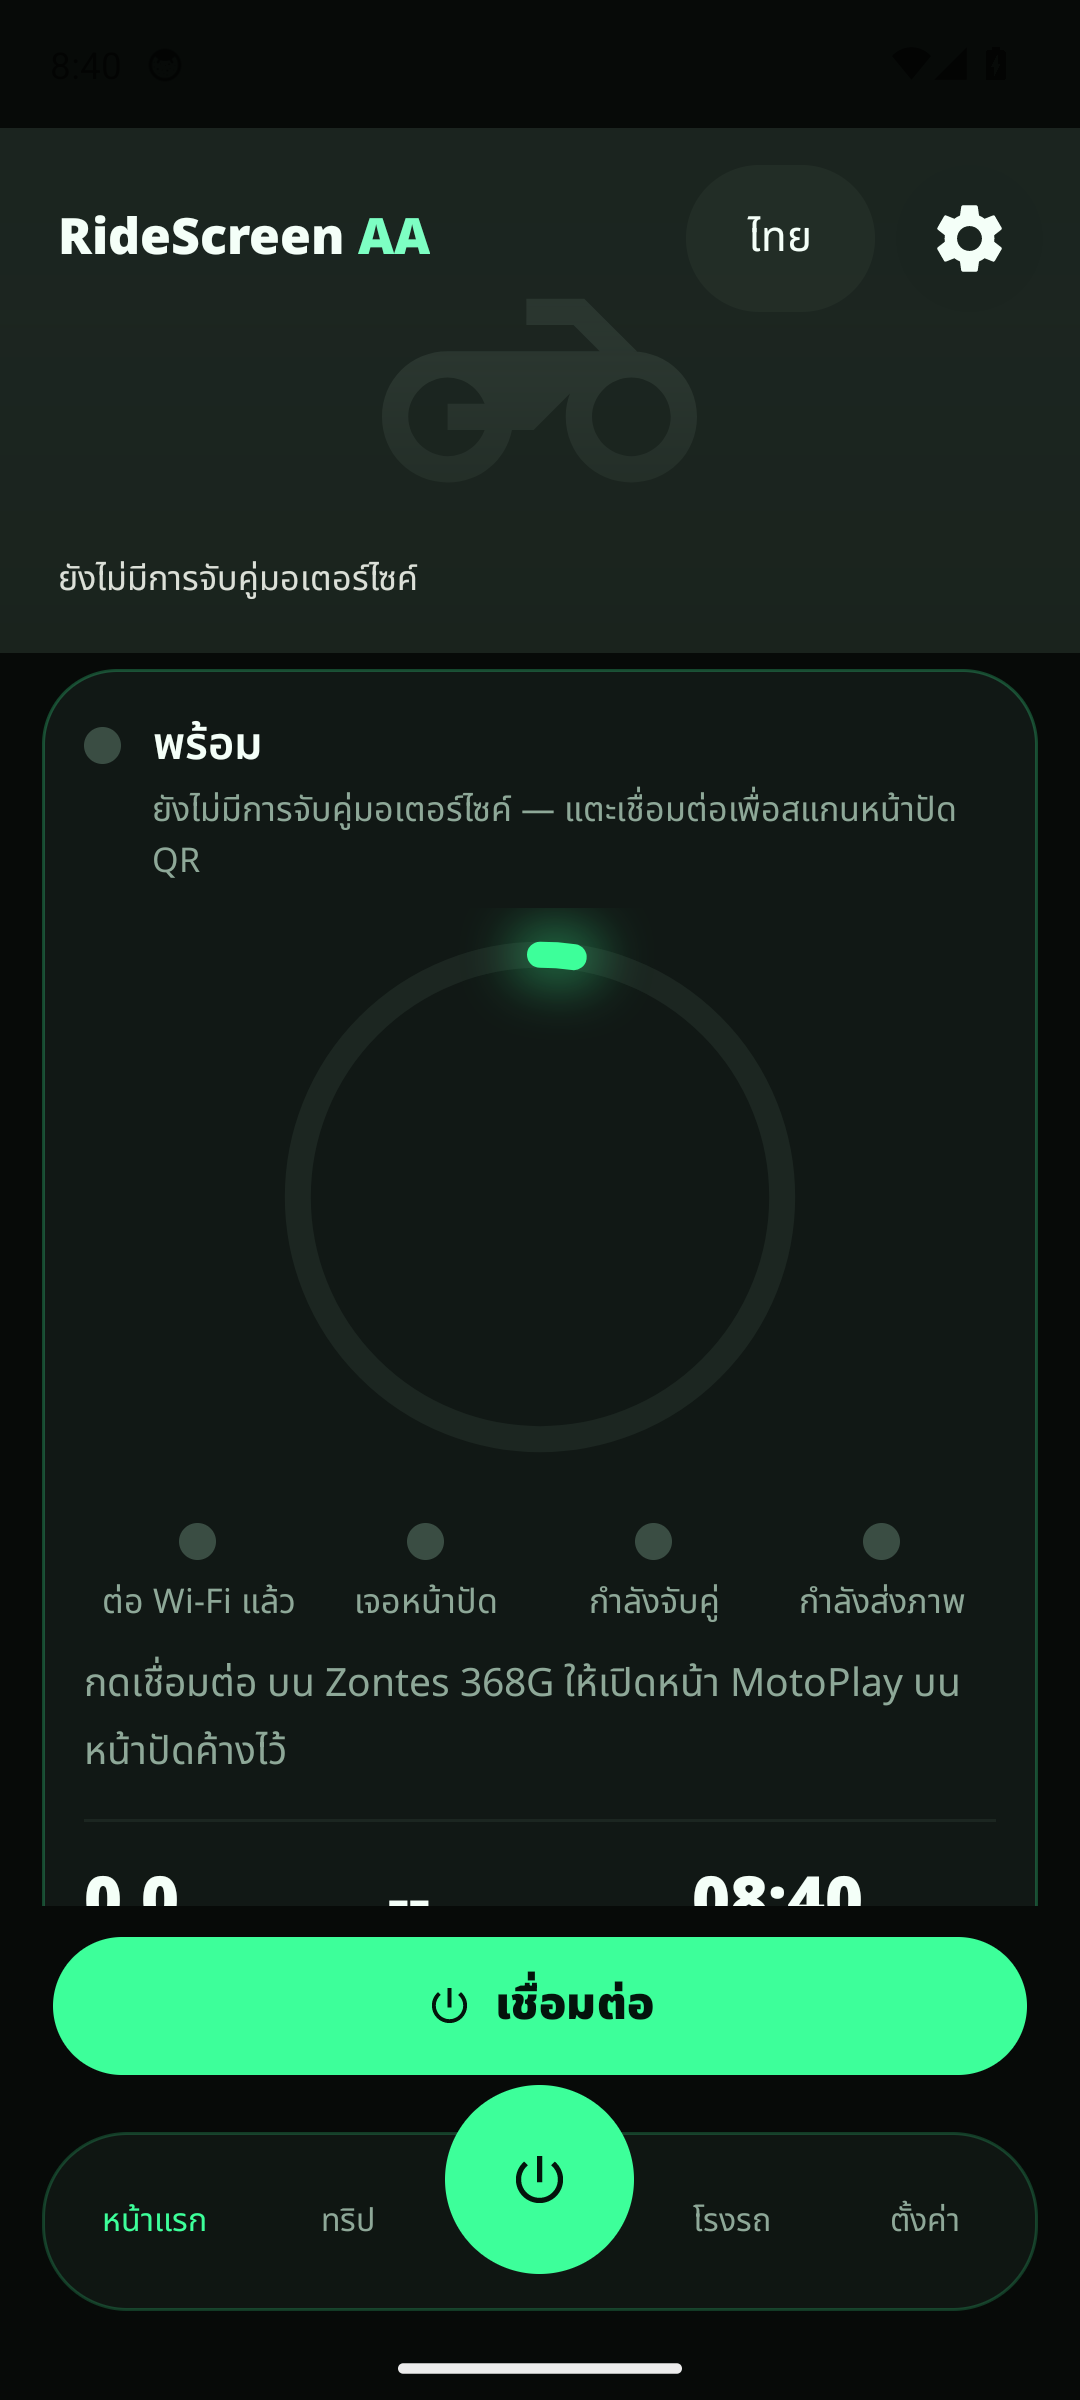
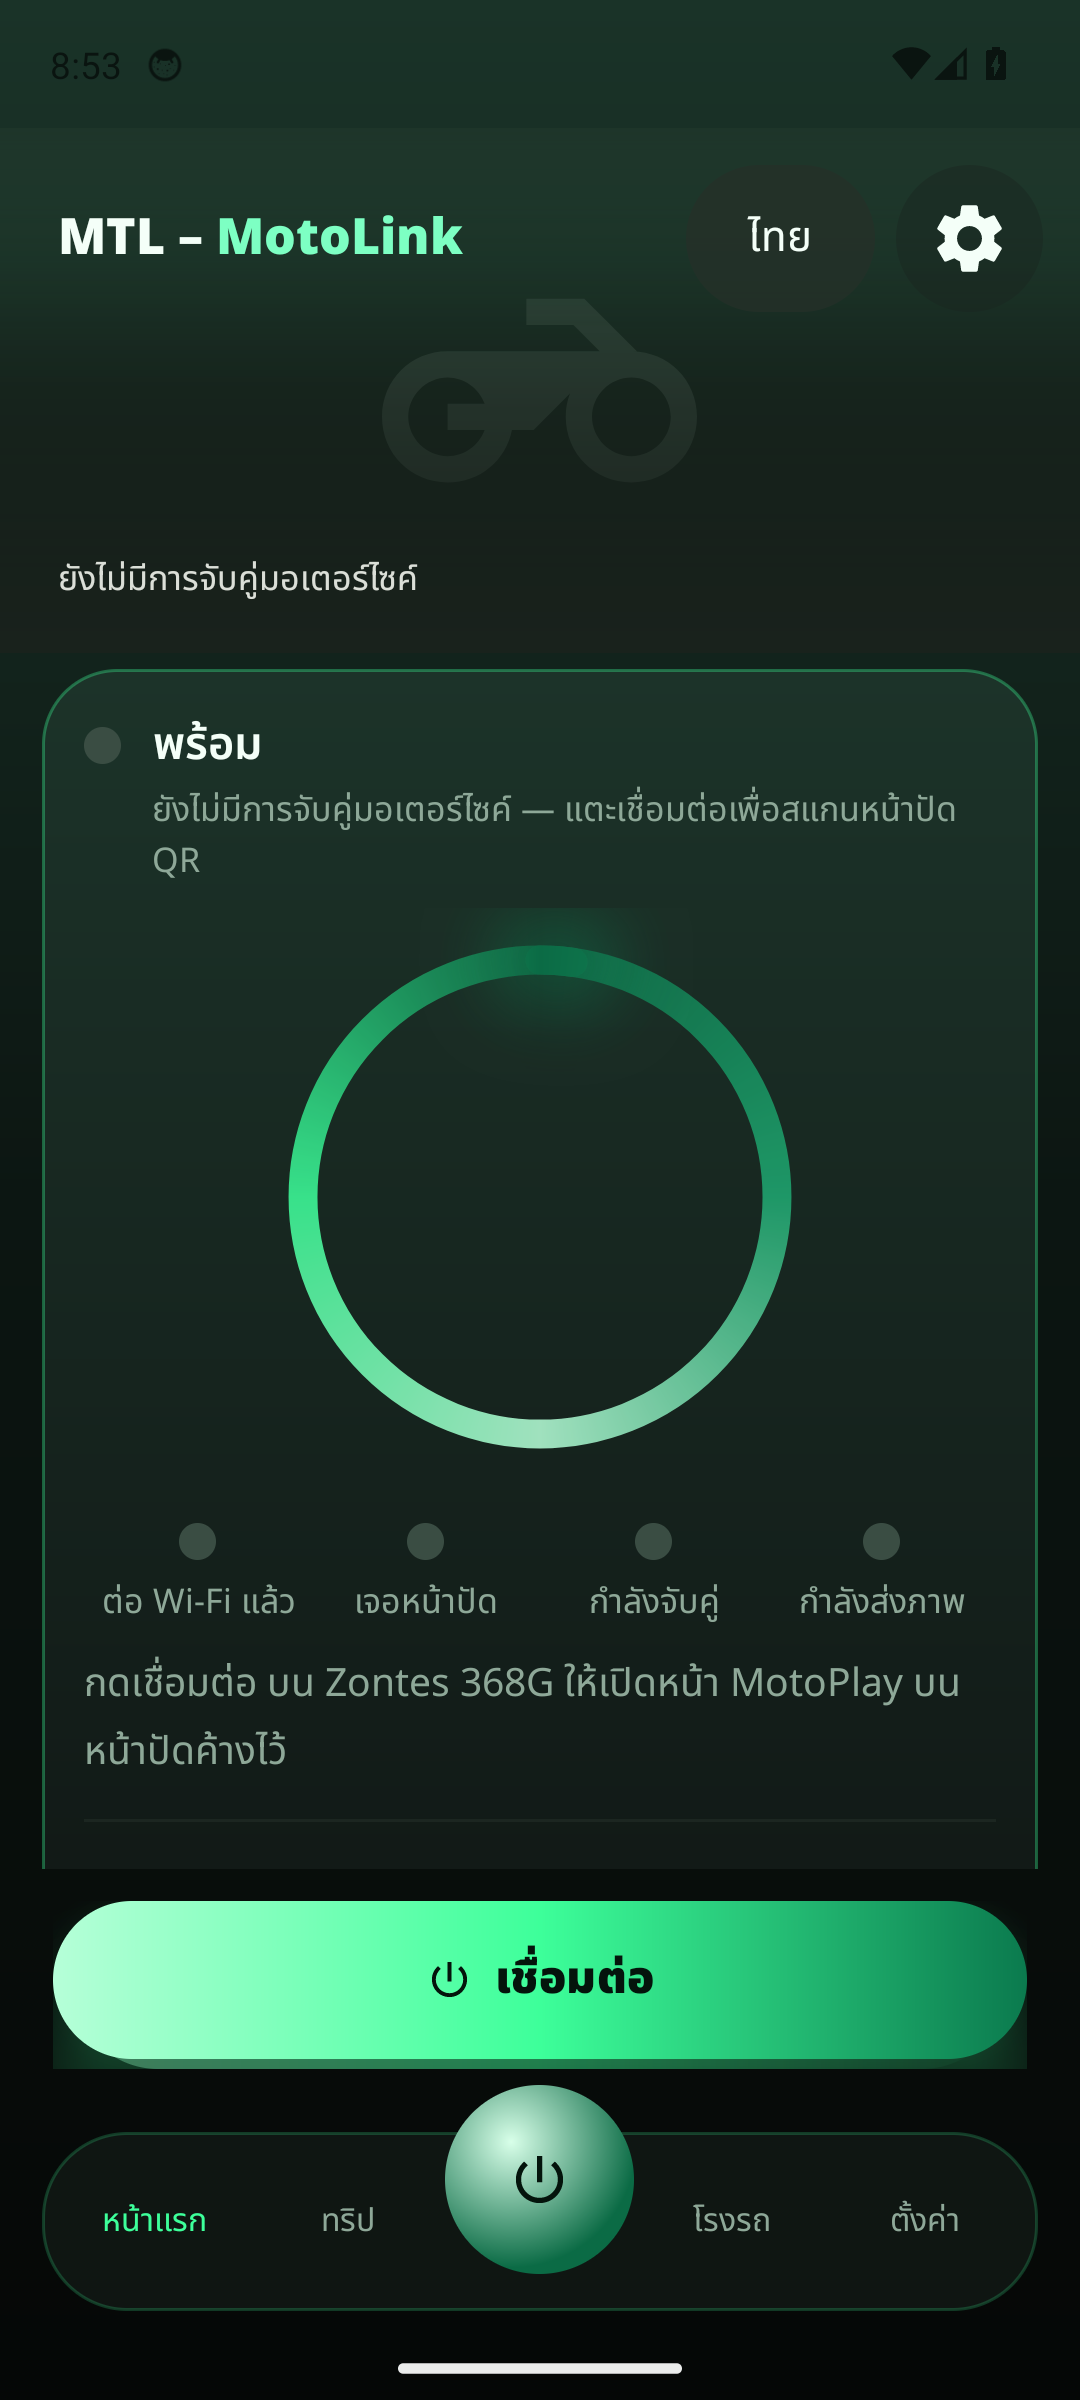
Rename the app to MTL – MotoLink and add mint gradients.
The launcher label is MTL. The home title, about screen, and README use the full name. Primary controls, the connection ring, and cards pick up mint-to-emerald gradients.

diff --git a/app/src/main/java/dev/zanderp/opencfmoto/ConnectionRingView.kt b/app/src/main/java/dev/zanderp/opencfmoto/ConnectionRingView.kt
@@ -6,11 +6,12 @@ package dev.zanderp.opencfmoto
 import android.content.Context
 import android.graphics.BlurMaskFilter
 import android.graphics.Canvas
+import android.graphics.Matrix
 import android.graphics.Paint
 import android.graphics.RectF
+import android.graphics.SweepGradient
 import android.util.AttributeSet
 import android.view.View
-import androidx.core.content.ContextCompat
 
 /**
  * Glowing circular progress for the four connection steps. Display only.
@@ -22,8 +23,20 @@ class ConnectionRingView @JvmOverloads constructor(
 
     private val arc = RectF()
     private var sweep = 12f
-    private var accent = 0xFF3DFF9A.toInt()
-    private var trackColor = 0xFF1C2A22.toInt()
+    private var failed = false
+    private val mint = intArrayOf(
+        0xFF0B6B45.toInt(),
+        0xFF1FA971.toInt(),
+        0xFFB6FFD8.toInt(),
+        0xFF3DFF9A.toInt(),
+        0xFF0B6B45.toInt(),
+    )
+    private val errorSweep = intArrayOf(
+        0xFF8A3030.toInt(),
+        0xFFFF8A80.toInt(),
+        0xFFFF6B6B.toInt(),
+        0xFF8A3030.toInt(),
+    )
 
     private val track = Paint(Paint.ANTI_ALIAS_FLAG).apply {
         style = Paint.Style.STROKE
@@ -40,8 +53,6 @@ class ConnectionRingView @JvmOverloads constructor(
 
     init {
         setLayerType(LAYER_TYPE_SOFTWARE, null)
-        accent = ContextCompat.getColor(context, R.color.brand_orange)
-        trackColor = ContextCompat.getColor(context, R.color.surface_high)
     }
 
     fun setMarks(marks: List<ConnectionGuide.Mark>) {
@@ -54,28 +65,43 @@ class ConnectionRingView @JvmOverloads constructor(
                 ConnectionGuide.Mark.TODO -> 0f
             }
         }
-        val failed = marks.any { it == ConnectionGuide.Mark.FAILED }
-        accent = ContextCompat.getColor(
-            context,
-            if (failed) R.color.status_error else R.color.brand_orange,
-        )
+        val nextFailed = marks.any { it == ConnectionGuide.Mark.FAILED }
+        if (nextFailed != failed) {
+            failed = nextFailed
+            rebuildShader()
+        }
         sweep = (units / marks.size.coerceAtLeast(1) * 360f).coerceIn(8f, 360f)
         invalidate()
     }
 
+    override fun onSizeChanged(w: Int, h: Int, oldw: Int, oldh: Int) {
+        super.onSizeChanged(w, h, oldw, oldh)
+        rebuildShader()
+    }
+
+    private fun rebuildShader() {
+        if (width == 0 || height == 0) return
+        val cx = width / 2f
+        val cy = height / 2f
+        val shader = SweepGradient(cx, cy, if (failed) errorSweep else mint, null)
+        shader.setLocalMatrix(Matrix().apply { setRotate(-90f, cx, cy) })
+        arcPaint.shader = shader
+        glow.shader = shader
+    }
+
     override fun onDraw(canvas: Canvas) {
-        val stroke = width * 0.045f
+        val stroke = width * 0.05f
         track.strokeWidth = stroke
-        track.color = trackColor
+        track.shader = arcPaint.shader
+        track.alpha = 220
         arcPaint.strokeWidth = stroke
-        arcPaint.color = accent
-        glow.strokeWidth = stroke * 2.4f
-        glow.color = accent
-        glow.alpha = 90
-        glow.maskFilter = BlurMaskFilter(stroke * 1.6f, BlurMaskFilter.Blur.NORMAL)
+        arcPaint.alpha = 255
+        glow.strokeWidth = stroke * 3.1f
+        glow.alpha = 140
+        glow.maskFilter = BlurMaskFilter(stroke * 2f, BlurMaskFilter.Blur.NORMAL)
         val inset = stroke * 1.8f
         arc.set(inset, inset, width - inset, height - inset)
-        canvas.drawArc(arc, 0f, 360f, false, track)
+        canvas.drawArc(arc, -90f, 360f, false, track)
         canvas.drawArc(arc, -90f, sweep, false, glow)
         canvas.drawArc(arc, -90f, sweep, false, arcPaint)
     }

diff --git a/app/src/main/java/dev/zanderp/opencfmoto/MainActivity.kt b/app/src/main/java/dev/zanderp/opencfmoto/MainActivity.kt
@@ -784,6 +784,7 @@ class MainActivity : AppCompatActivity() {
         bikeView = findViewById(R.id.bike_view)
         LanguagePicker.bind(this, findViewById(R.id.btn_language))
         connectBtn = findViewById(R.id.btn_connect)
+        applyConnectGradient()
         findViewById<android.widget.ImageButton>(R.id.nav_center).setColorFilter(
             ContextCompat.getColor(this, R.color.on_brand),
         )
@@ -1487,6 +1488,12 @@ class MainActivity : AppCompatActivity() {
     private fun setupHomeTiles() {
         findViewById<View>(R.id.btn_trips_list)?.setBackgroundResource(R.drawable.bg_quick_mint)
         buildTile(R.id.btn_trips_list, "🏍", 0xFF3DFF9A.toInt(), getString(R.string.home_tile_trips))
+        findViewById<android.widget.LinearLayout>(R.id.btn_trips_list)?.let { tile ->
+            val ink = ContextCompat.getColor(this, R.color.on_brand)
+            for (i in 0 until tile.childCount) {
+                (tile.getChildAt(i) as? TextView)?.setTextColor(ink)
+            }
+        }
         buildTile(R.id.btn_fuel, "⛽", 0xFFE5774E.toInt(), getString(R.string.home_tile_fuel), getString(R.string.home_tile_fuel_sub))
         buildTile(R.id.btn_maint, "🔧", 0xFF4FB6A6.toInt(), getString(R.string.home_tile_maint))
         buildTile(R.id.btn_traffic_lights, "🚦", 0xFFE05A5A.toInt(), getString(R.string.home_tile_tl))
@@ -1778,6 +1785,21 @@ class MainActivity : AppCompatActivity() {
         }
     }
 
+    /** Mint-to-emerald fill. Material's tint would flatten this back to a solid color. */
+    private fun applyConnectGradient() {
+        val btn = connectBtn as? com.google.android.material.button.MaterialButton ?: return
+        btn.backgroundTintList = null
+        btn.background = ContextCompat.getDrawable(this, R.drawable.bg_pill_gradient)
+        btn.setTextColor(ContextCompat.getColor(this, R.color.on_brand))
+        btn.iconTint = android.content.res.ColorStateList.valueOf(ContextCompat.getColor(this, R.color.on_brand))
+        btn.elevation = 18f * resources.displayMetrics.density
+        if (android.os.Build.VERSION.SDK_INT >= 28) {
+            val glow = 0xFF3DFF9A.toInt()
+            btn.outlineAmbientShadowColor = glow
+            btn.outlineSpotShadowColor = glow
+        }
+    }
+
     /** Four-step connection status. Colours only; the link itself is unchanged. */
     private fun renderConnectionGuide(phase: Phase, detail: String) {
         val model = ConnectionGuide.model(phase, detail)
@@ -1878,6 +1900,7 @@ class MainActivity : AppCompatActivity() {
                 R.drawable.ic_power
             },
         )
+        applyConnectGradient()
         updateButtonStates(phase)
     }
 

diff --git a/README.md b/README.md
@@ -1,6 +1,6 @@
-# RideScreen AA
+# MTL – MotoLink
 
-แอปสำหรับส่งหน้าจอแบบ Android Auto ไปที่หน้าปัดรถมอเตอร์ไซค์ผ่าน Wi-Fi ไม่ต้องรูทเครื่อง ทดลองใช้กับ **Zontes 368G V2** และมือถือ **Samsung Galaxy S23 Ultra**
+**MTL – MotoLink** ส่งหน้าจอแบบ Android Auto ไปที่หน้าปัดรถมอเตอร์ไซค์ผ่าน Wi-Fi ไม่ต้องรูทเครื่อง ชื่อบนหน้าจอเครื่องคือ **MTL** ทดลองใช้กับ **Zontes 368G V2** และมือถือ **Samsung Galaxy S23 Ultra**
 
 โปรเจกต์นี้เป็นฟอร์กของ [mgb1982/ridescreen-aa](https://github.com/mgb1982/ridescreen-aa) ซึ่งต่อจาก [OpenCfMoto](https://github.com/zanderp/open-cfmoto) ของ Alexandru (zanderp) **ไม่ใช่แอปทางการของ Zontes, CFMoto หรือ Google**
 
@@ -75,7 +75,7 @@ APK อยู่ที่ `app/build/outputs/apk/github/debug/app-github-debug.a
 
 ## English
 
-**RideScreen AA** mirrors an Android Auto-style screen from an Android phone onto a motorcycle dash over Wi-Fi. This fork is aimed at a **Zontes 368G V2** with a **Samsung Galaxy S23 Ultra**. It is a fork of [mgb1982/ridescreen-aa](https://github.com/mgb1982/ridescreen-aa), itself built on [OpenCfMoto](https://github.com/zanderp/open-cfmoto) by Alexandru (zanderp). It is not an official Zontes, CFMoto, or Google app.
+**MTL – MotoLink** (launcher name **MTL**) mirrors an Android Auto-style screen from an Android phone onto a motorcycle dash over Wi-Fi. This fork is aimed at a **Zontes 368G V2** with a **Samsung Galaxy S23 Ultra**. It is a fork of [mgb1982/ridescreen-aa](https://github.com/mgb1982/ridescreen-aa), itself built on [OpenCfMoto](https://github.com/zanderp/open-cfmoto) by Alexandru (zanderp). It is not an official Zontes, CFMoto, or Google app.
 
 The phone language is used by default. An in-app picker can force **ไทย**, **English**, or follow the system. Thai text uses Noto Sans Thai.
 
